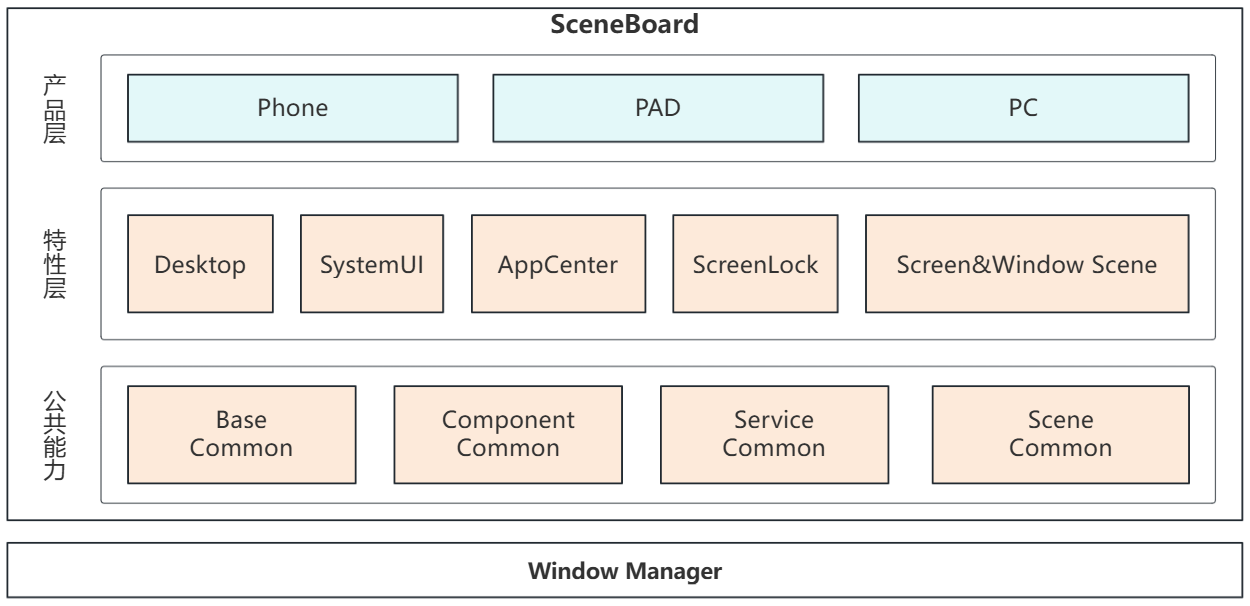
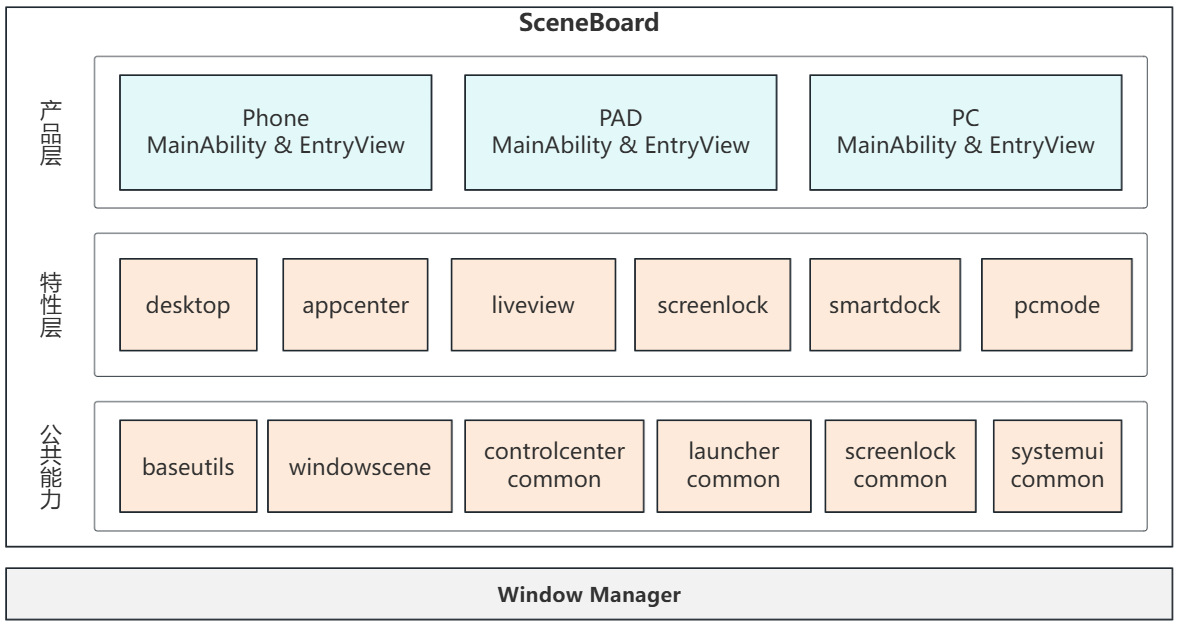
完善说明文档。

diff --git a/README.md b/README.md
@@ -10,76 +10,189 @@
   - [相关仓](#相关仓)
 
 ## 简介
-**SceneBoard** 是 OpenHarmony 窗口子系统的桌面与窗口管理合一的部件，既承载桌面相关系统应用，也包含了窗口管理与屏幕管理能力。
+**SceneBoard** 是 OpenHarmony 窗口子系统的部件之一，既承载桌面相关系统应用界面，也包含了窗口管理与屏幕管理的基础框架。
 
-职责上，SceneBoard 提供：
-1. 面向不同产品，提供统一的 SceneBoard 集成入口。不同产品可以通过 `product` 层的 `ServiceExtensionAbility`、页面入口和产品基础模块完成差异化装配。
-2. 面向桌面相关系统应用，提供统一的系统窗口承载容器实现集成不同的桌面特性，例如壁纸、桌面、状态栏、锁屏、应用中心、多任务等。
-3. 面向窗口管理，提供屏幕和窗口的组织能力，基于 `ScreenSession`、`SceneSession`、`SystemSceneSession` 等会话对象管理实例、生命周期、层级与事件分发。
+![SceneBoard](./docs/figures/SceneBoard_in_window_subsystem.png)
 
-### 核心能力
-1. 窗口管理能力
-  - 管理应用主窗口、辅助窗口、系统窗口及其容器关系。
-  - 维护窗口层级、焦点、旋转、动画、恢复、拖拽与布局编排。
-  - 支持普通窗口模式、自由窗口模式、分屏等场景。
-2. 屏幕管理能力
-  - 管理主屏、扩展屏、虚拟屏等屏幕实例及其生命周期。
-  - 感知屏幕尺寸、旋转、模式切换、接入断开等属性变化，并同步管理屏幕中的窗口。
-  - 为不同屏幕挂载对应的系统场景和窗口容器。
-3. 系统窗口管理能力
-  - 以系统窗口形式承载壁纸、桌面、状态栏、锁屏、通知、Dock 等系统 UI。
-  - 通过统一的窗口会话管理，将系统 UI 与应用窗口统一纳入窗口控件化管理体系。
-4. 产品化集成能力
-  - 针对不同产品，例如 `phone`、`pad`、`pc` 等产品，可通过创建 `ServiceExtensionAbility` 和管理不同的模块化能力实现产品集成。
+**核心能力**：
+1. 窗口控件管理、窗口布局和状态管理的能力
+    - 通过窗口会话和窗口控件，管理应用主窗口、辅助窗口、系统窗口及其容器关系。
+    - 管理窗口层级、焦点，以及布局、拖拽、旋转、动画等。
+    - 支持普通窗口模式、自由窗口模式、分屏等交互场景。
+2. 屏幕控件和状态管理的能力
+    - 管理主屏、扩展屏、虚拟屏等屏幕实例及其生命周期。
+    - 感知屏幕尺寸、旋转、模式切换、接入断开等属性变化，并同步管理屏幕中的窗口。
+    - 在屏幕控件中，为不同屏幕挂载对应的系统窗口以及窗口容器。
+3. 合一桌面 UI 界面管理的能力
+    - 以系统窗口的方式承载壁纸、桌面、状态栏、锁屏、通知、Dock 等合一桌面 UI 界面。
+    - 将合一桌面的窗口与应用窗口等各种类型的窗口，全部纳入窗口控件管理框架中进行统一管理。
+4. 作为系统级应用，承载系统与用户交互的入口，支持 phone、pad、pc 等多种设备形态，提供全场景桌面体验。
+
+**说明**：
+1. 需要注意的是，当前部件仅合一架构下生效。关于合一架构和配置方式，请参考说明：[合一架构](https://gitcode.com/openharmony/window_window_manager#3-%E5%88%86%E7%A6%BB%E6%9E%B6%E6%9E%84%E4%B8%8E%E5%90%88%E4%B8%80%E6%9E%B6%E6%9E%84%E8%AF%A6%E8%A7%A3)
+2. SceneBoard 构建于 `window_manager` 之上，并通过 `window_manager` 实现与其他子系统交互。
+
+![scene_board与window_manager](./docs/figures/sceneboard_with_windowmanager.png)
+
 
 ## 架构说明
-SceneBoard 是一套从基础会话管理到产品集成的分层框架。它将屏幕管理、窗口管理（系统窗口和应用窗口）、以及产品化入口串联起来，最终打包为产品侧可直接部署的 hap 程序。
+
+### 概述
+SceneBoard 整体采用分层和模块化架构设计，共分为三层：
+```
+产品层 (product/)：产品适配相关
+  ↓
+特性层 (feature/)：模块化业务功能相关
+  ↓
+公共能力层 (staticcommon/)：通用工具、基础管理框架相关
+```
+它将屏幕管理、窗口管理（系统窗口和应用窗口）、以及基于系统窗口的合一桌面（系统桌面、锁屏、壁纸等）、产品化入口多个模块串联起来，最终打包为可直接部署的 .app 程序。
+
 ![部件关系](./docs/figures/SceneBoard.png)
 
-SceneBoard 整体采用“公共能力层 + 特性层 + 产品层”的三层架构。
+### 模块化设计
+自下而上每一层使用模块化架构设计，分别：
+1. 公共能力层：承载 SceneBoard 的基础公共能力，该层主要承载SceneBoard必须加载的核心基础能力。
+    - basecommon: 位于 `staticcommon/basecommon/`，提供日志、常量、工具、框架包装以及窗口会话管理基础能力。
+        - baseutils: 提供常用的基础工具，例如日志、通用常量、工具方法等。
+        - windowscene: 提供屏幕和窗口控件管理的基础能力框架。
+    - controlcentercommon: 提供可复用的控制中心UI组件和业务管理等基础能力。
+    - launchercommon: 提供可复用的系统桌面基础能力。
+    - screenlockcommon: 提供可复用的锁屏基础能力。
+    - systemuicommon: 提供可复用的通知、实况窗、弹窗、状态栏的UI组件和业务管理等基础能力。
 
-1. 公共能力层：承载 SceneBoard 的基础公共能力
-  - base common: 提供日志、常量、工具、框架包装以及窗口会话管理基础能力。
-  - component common: 提供可复用的UI组件、常量、动效等基础能力。
-  - service common: 提供锁屏、主题等基础能力。
-  - scene common: 提供屏幕和窗口控件管理的基础能力。
+2. 特性层：承载 SceneBoard 的可跨产品复用的特性能力，可在不同产品中差异化集成。
+    - 合一桌面相关的特性能力有：桌面（desktop）、应用中心（appcenter）、锁屏（screenlock）等。
+    - 窗口和屏幕控件管理能力：Screen Scene 和 Window Scene 管理，例如自由窗口（pcmode）、虚拟屏（commonscbscreen）等。窗口与屏幕会话的说明，参考： [docs/SceneBoard中的窗口.md](./docs/SceneBoard中的窗口.md)。
 
-2. 特性层：承载 SceneBoard 的可跨产品复用的特性能力
-  - 桌面相关的特性：桌面（Desktop）、系统UI（SystemUI）、应用中心（AppCenter）、锁屏（ScreenLock）等。
-  - 窗口和屏幕控件管理：Screen Scene 和 Window Scene 管理，例如扩展屏、自由窗口等。
-  - 窗口与屏幕会话的说明，参考： [docs/SceneBoard中的窗口.md](./docs/SceneBoard中的窗口.md)。
+3. 产品层：作为应用的主入口，承载不同设备的UI和特有交互的适配，例如 `phone`、`pad`、`pc` 等。
+    - 模块化配置和加载：在 `oh-package.json5` 中配置不同的模块化能力，通过 `MainAbility` 及其主界面 `EntryView` 的生命周期中加载和管理不同的模块化能力，最终实现产品化集成。例如：
+        ```
+        {
+          "devDependencies": {},
+          "name": "sceneboard",
+          "description": "",
+          "version": "1.0.0",
+          "dependencies": {
+            // ...
+            "@ohos/windowscene": "../basecommon/windowscene", // 集成窗口管理基础能力组件
+            "@ohos/volumepanelcomponent": "../../feature/volume/volumepanelcomponent", // 集成音量条组件
+            "@ohos/controlcentercomponent": "../../feature/controlcentercomponent", // 集成控制控制中心组件
+            "@ohos/screenlockcomponent": "../../feature/screenlockcomponent", // 集成锁屏组件
+            //...
+          }
+        }
+        ```
+    - 主入口为 `MainAbility`，继承自 `ServiceExtensionAbility`，可在 `onCreate`、`onRequest`、`onDestory`等生命周期中加载主界面（`EntryView`）、管理特性层和公共能力层封装提供的能力。
+        - 加载主界面：通过 `windowscene` 提供的 `SCBSceneSessionManager#loadContent()` 方法实现 `EntryView.ets` 的加载。
+        - 初始化窗口管理服务：通过 `windowscene` 提供的 `SCBSceneSessionManager#init()` 方法和 `sessionManagerService#initSessionManagerService`实现窗口管理框架和服务的初始化。
+        - 特性模块集成，需遵循模块定义和导出的 API 调用。
+    - 主界面加载后会进入屏幕的初始化流程，可通过定制屏幕中的系统窗口控件的组合实现产品界面的定制：
+        - SceneBoard中屏幕和窗口均通过 ArkUI 控件的方式进行管理，开发参考：[ArkUI 开发概述](https://gitcode.com/openharmony/docs/blob/master/zh-cn/application-dev/ui/arkts-ui-development-overview.md)
+        - `SCBScreen` 是承载产品合一桌面的顶层控件，通过在不同层级上组合合一桌面UI组件即可实现该产品的桌面交互体验。例如，phone 产品定义的 [SCBScreen](product\phonebase\src\main\ets\SceneBoard\scenemanager\SCBScreen.ets)在不同层级上集成了：壁纸(Wallpaper)、系统桌面(Desktop)、锁屏(ScreenLock)、状态栏(StatusBar)、输入法面板(KeyBoard)等合一桌面特性、以及各类ScenePanel(分别承载应用主窗口、全局悬浮窗、画中画、悬浮球等)。
+        ```
+        // phone产品的SCBScreen
+        @Component
+        export struct SCBScreen {
 
-3. 产品层
-  - 将公共层和特性层装配为具体产品形态，以 `ServiceExtensionAbility` 作为入口。当前支持 `phone`、`pad`、`pc` 三种产品。
+          build() {
+            // ...
+            // Wallpaper
+            this.systemSceneBuilder(..., sceneSessionManager.SessionType.TYPE_WALLPAPER,
+              'SCBWallpaper', SCBDefaultZIndex.WALLPAPER, ...)
+
+            // Desktop
+            this.systemSceneBuilder(..., sceneSessionManager.SessionType.TYPE_DESKTOP, 
+              'SCBDesktop', SCBDefaultZIndex.DESKTOP, ...)
+
+            // ScenePanel for app main window or sub window
+            SCBScenePanel(...)
+
+            // ScenePanel for System Float window zorder ABOVE_SCENE_PANEL
+            SCBSpecificScenePanel(...)
+
+            // ScenePanel for PictureInPicture window
+            SCBPictureInPictureScenePanel(...)
+
+            // ScenePanel for Floating ball
+            SCBFloatingBallPanel(...)
+
+            // ScreenLock
+            this.systemSceneBuilder(..., sceneSessionManager.SessionType.TYPE_KEYGUARD, 
+              'SCBScreenLock', SCBDefaultZIndex.SCREEN_LOCK, ...)
+
+            // StatusBar
+            this.systemSceneBuilder(..., sceneSessionManager.SessionType.TYPE_STATUS_BAR, 
+              'SCBStatusBar', SCBDefaultZIndex.STATUS_BAR, ...)
+
+            // KeyBoard
+            this.keyboardBuilder('AboveSpecificScene')
+            // ...
+          }
+        }
+        ```
+
 
 协作链路：
 
 ```text
 产品入口(ServiceExtensionAbility)
-  -> 加载 SceneBoard 页面与上下文
-  -> 初始化 SCBSceneSessionManager / SCBScreenSessionManager
+  -> 启动后进入onCreate生命周期，加载 SceneBoard 主页面与初始化上下文
+  -> 初始化基础设施：SCBSceneSessionManager、 SCBScreenSessionManager、SessionManagerService
   -> 构建主屏 SCBScreen 屏幕控件，按需加载扩展屏、虚拟屏
-  -> 加载应用窗口面板(SCBScenePanel)、按需挂载不同的桌面相关的系统窗口控件(SCBSystemScene)
+  -> 加载应用窗口面板(SCBScenePanel)、按需挂载不同的合一桌面的系统窗口控件(SCBSystemScene)
   -> 统一处理屏幕变化、窗口调度、层级管理与产品定制逻辑
 ```
 
-## 开发步骤
+### 构建方式
+![build](./docs/figures/SceneBoard_build.png)
+
+在三层分层架构中，SceneBoard 整体会打包成一个 .app 程序包。其中，每一层分别构建如下：
+1. 公共能力层特性层：
+    - 公共能力层承载所有产品和特性都需要依赖的基础能力，例如：窗口和屏幕管理基础框架(`windowscene`)等。
+    - 特性层承载跨产品可复用的特性 UI 组件和特性公共业务逻辑，例如：系统桌面(`desktop`)、锁屏(`screenlock`)等。
+    - 各模块按照业务边界和功能内聚的原则进行划分，编译为 .har 模块包。
+2. 产品层：
+    - 承载该产品的SceneBoard入口，以及产品适配的UI、基于公共能力层或特性层定制的业务逻辑，以完成该产品特殊的交互体验。例如：phone 产品无需集成任务栏(`smartdock`)，而 pc 产品需要。
+    - 最终，产品层会编译为 .hap 模块包。
+
+## 开发
 
 ### 新增产品
 适用场景：需要新增自定义产品，集成差异化能力。
+
 实现方式：
 1. `product` 中新增产品 hap 模块，实现 `ServiceExtensionAbility` 入口。
-2. `oh-package.json5` 中按需集成不同的 feature 模块和 common 模块。
-3. 在 `ServiceExtensionAblity` ArkUI 页面中通过 `RootScene` 挂载 `SCBScreen`。
+2. `oh-package.json5` 中按需集成不同的特性模块和公共能力模块。
+3. 在 `ServiceExtensionAblity` 中加载SceneBoard主界面 `EntryView` ，并在主界面中通过 `RootScene` 挂载 `SCBScreen`。
+```
+@Component
+struct EntryView {
+  private rootSceneSession: SCBRootSceneSession = SCBSceneSessionManager.getInstance().getRootSceneSession();
+
+  build() {
+    RootScene(this.rootSceneSession.session) {
+      ForEach(this.screenSessionList, (item: SCBScreenSession) => {
+        if (item.session.innerName === CUSTOM_SCB_SCREEN) {
+          // 虚拟屏
+        } else if (this.isExtendScreen(item)) {
+          // 扩展屏
+        } else {
+          // 主屏
+          SCBScreen({ screenSession: item })
+        }
+      }, (item: SCBScreenSession) => item.session.screenId.toString())
+    }
+  }
+}
+```
 
 ### 定制屏幕控件 SCBScreen
 适用场景：需要加入产品特有的系统窗口、层级规则、手势或动画逻辑。
 
 实现方式：
-1. 以 `product/phonebase/src/main/ets/SceneBoard/scenemanager/SCBScreen.ets` 或 `product/pcbase/src/main/ets/SceneBoard/scenemanager/SCBScreen.ets` 为基线扩展。
-2. 在自定义 `SCBScreen` 中维护产品自己的 `SCBScreenProperty`、屏幕旋转处理、系统场景 Builder 和面板挂载顺序。
-3. 根据产品需要注册壁纸、桌面、状态栏、Dock、通知、锁屏等系统窗口。
-4. 通过设置面板 z-index、回调和 ScenePanel 列表，定义系统窗口与应用窗口的协同规则。
+1. 可参考现有的 phone 产品的[主屏幕](./product/phonebase/src/main/ets/SceneBoard/scenemanager/SCBScreen.ets) 或 pc 产品的[主屏幕](./product/pcbase/src/main/ets/SceneBoard/scenemanager/SCBScreen.ets) 实现，进行扩展。
+2. 根据产品需要注册壁纸、桌面、状态栏、Dock、通知、锁屏等合一桌面系统窗口，也可以封装出自定义合一桌面系统窗口。
 
 ```
 @Component
@@ -87,11 +200,24 @@ export struct SCBScreen {
   build() {
     // 0层的系统窗口按照层级顺序挂在SCBScreen屏幕空间下
     Screen(this.screenSession.session.screenId) {
-      // 按需定制不同的系统窗口，实现提供UI。
-      SCBWallpaper()
+      
+      // 壁纸
+      SCBWallpaper(...)
 
-      // ScenePanel
-      SCBScenePanel({ screenProperty: $scbScreenProperty })
+      // 桌面
+      SCBDesktop(...)
+
+      // 应用窗口面板
+      SCBScenePanel(...)
+
+      // 状态栏
+      SCBStatusbar(...)
+
+      // Dock
+      SCBSmartDock(...)
+
+      // 自定义的合一桌面控件
+      CustomXXX(...)
 
       // ...
     }
@@ -100,16 +226,28 @@ export struct SCBScreen {
 ```
 
 ### 开发建议
-1. 定制时优先复用已有的 `SCBSceneSessionManager`、`SCBScreenSessionManager` 和通用面板能力，避免绕开全局会话管理器单独维护窗口状态。
-2. `SCBScenePanel`、`SCBSpecificScenePanel` 为应用窗口容器面板是必须要在屏幕控件中实现，否则无法响应 API 。
+1. `SCBScenePanel`、`SCBSpecificScenePanel` 为应用窗口容器面板是必须要在屏幕控件中实现，否则应用窗口和内容无法正常显示、无法正常响应 API 。
+2. 开发过程中，建议按照 ArkUI MVVM 开发指南进行开发，参考：[ArkUI MVVM模式](https://gitcode.com/openharmony/docs/blob/master/zh-cn/application-dev/ui/state-management/arkts-mvvm-v2.md)。
 
 ## 目录
 ```text
 scene_board
 ├─AppScope                           # 资源、多语言与应用级配置
 ├─feature                            # 特性层
+│  ├─appcenter                       # 应用中心
+│  ├─appinstall                      # 应用安装界面
 │  ├─commonscbscreen                 # 通用屏幕与窗口面板模板
-│  └─pcmode                          # PC 模式、自由窗与分屏能力
+│  ├─desktop                         # 系统桌面
+│  ├─gestureback                     # 返回手势
+│  ├─liveview                        # 实况窗
+│  ├─notifcation                     # 通知
+│  ├─pcmode                          # PC 模式、自由窗与分屏能力
+│  ├─recents                         # 多任务、任务中心
+│  ├─screenlock                      # 锁屏
+│  ├─smartdock                       # 任务栏
+│  ├─systemdialog                    # 系统弹窗
+│  ├─themecomponent                  # 主题
+│  └─volume                          # 音量控制 
 ├─product                            # 产品层
 │  ├─pad                             # 平板产品模块
 │  ├─pc                              # PC 产品模块
@@ -118,7 +256,12 @@ scene_board
 │  └─phonebase                       # 手机/平板产品基础能力
 ├─scripts                            # 构建与辅助脚本
 ├─staticcommon                       # 公共能力层
-│  └─windowscene                     # 窗口和屏幕控件公共能力
+│  ├─basecommon/basicutils           # 基础设施、工具
+│  ├─basecommon/windowscene          # 窗口和屏幕控件公共能力
+│  ├─controlcentercommon             # 控制中心公共能力
+│  ├─launchercommon                  # 系统桌面公共能力
+│  ├─screenlockcommon                # 锁屏公共能力
+│  └─systemuicommon                  # 系统UI公共能力
 └─hvigor                             # 工程构建脚本
 ```
 
@@ -140,8 +283,11 @@ scene_board
 ## 约束
 - 语言版本：ArkTS
 - 编译依赖：
-  - `window_use_scene_board` 特性开关需为 `true`，即使能窗口合一架构
-  - `scene_board_core`为编译时部件依赖
+  - `window_use_scene_board` 特性开关需为 `true`，即使能窗口合一架构。参考：[window_manager架构切换](https://gitcode.com/openharmony/window_window_manager#23-%E5%8F%8C%E6%9E%B6%E6%9E%84)
+
+## 参与贡献<a name="section171384529153"></a>
+
+欢迎广大开发者贡献代码、文档等，具体的贡献流程和方式请参见[参与贡献](https://gitcode.com/openharmony/docs/blob/master/zh-cn/contribute/%E5%8F%82%E4%B8%8E%E8%B4%A1%E7%8C%AE.md)。
 
 ## 相关仓
 - [window_manager](https://gitcode.com/openharmony/window_window_manager)
